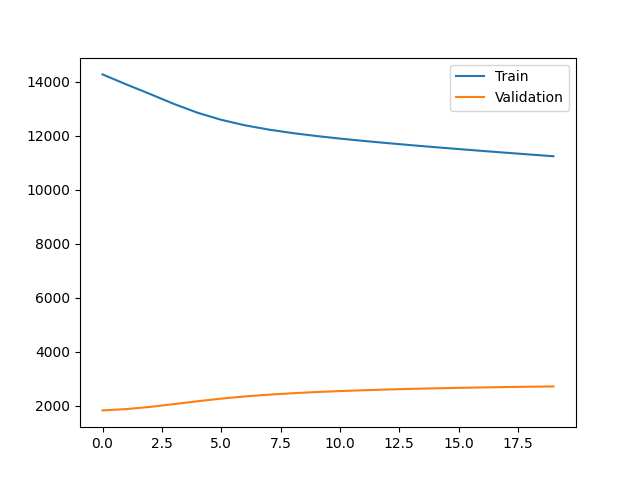
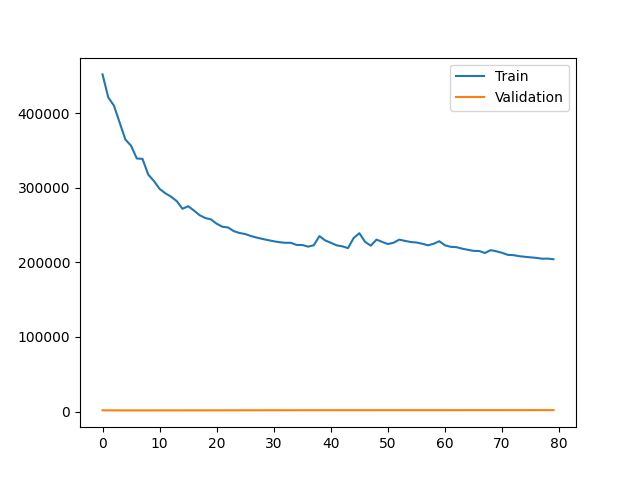
Fixed neural network validation accuracy

diff --git a/starter_code/part_a/neural_network.py b/starter_code/part_a/neural_network.py
@@ -120,6 +120,8 @@ def train(model, lr, lamb, train_data, zero_train_data, valid_data, num_epoch):
         for user_id in range(num_student):
             inputs = Variable(zero_train_data[user_id]).unsqueeze(0).to(device)
             target = inputs.clone().to(device)
+            val_inputs = Variable(val_sparse[user_id]).unsqueeze(0).to(device)
+            val_target = val_inputs.clone().to(device)
 
             optimizer.zero_grad()
             output = model(inputs)
@@ -129,18 +131,18 @@ def train(model, lr, lamb, train_data, zero_train_data, valid_data, num_epoch):
             target[0][nan_mask] = output[0][nan_mask]
 
             nan_mask_val = np.isnan(val_sparse[user_id].unsqueeze(0).numpy())
-            val_target = inputs.clone().to(device)
             val_target[0][nan_mask_val] = output[0][nan_mask_val]
 
             loss = torch.sum((output - target) ** 2.) + (
                     (lamb / 2) * model.get_weight_norm())
+
+            val_loss_internal = torch.sum((output - val_target) ** 2.)
+            val_loss += val_loss_internal.item()
+
             loss.backward()
 
             train_loss += loss.item()
             optimizer.step()
-            val_loss_internal = torch.sum((output - val_target) ** 2.) + (
-                    (lamb / 2) * model.get_weight_norm())
-            val_loss += val_loss_internal.item()
 
         valid_acc = evaluate(model, zero_train_data, valid_data)
         print("Epoch: {} \tTraining Cost: {:.6f}\t "
@@ -154,6 +156,7 @@ def train(model, lr, lamb, train_data, zero_train_data, valid_data, num_epoch):
     #####################################################################
     #                       END OF YOUR CODE                            #
     #####################################################################
+
 
 
 def evaluate(model, train_data, valid_data):
@@ -195,60 +198,25 @@ def main():
     #####################################################################
     # Set model hyperparameters.
     k_lst = [10, 50, 100, 200, 500]
-    # for k in k_lst:
-    # parser = argparse.ArgumentParser()
-    # parser.add_argument("--k", required=False,
-    #                     help="Index for k in [10, 50, 100, 200, 500]")
-    # parser.add_argument("--lr", required=False, help="Learning rate")
-    # parser.add_argument("--num-epoch", required=False, help="Num of epochs")
-    # parser.add_argument("--lamb", required=False, help="Lambda regularization")
-    # args = vars(parser.parse_args())
-    # if args['k']:
-    #     k = k_lst[int(args['k'])]
-    # Set optimization hyperparameters.
-    configs = [
-        {
-            'k': k_lst[0],
-            'lr': 0.01,
-            'num_epochs': 80,
-            'lamb': 0
-        },
-        {
-            'k': k_lst[0],
-            'lr': 0.01,
-            'num_epochs': 80,
-            'lamb': 0
-        },
-        {
-            'k': k_lst[0],
-            'lr': 0.01,
-            'num_epochs': 80,
-            'lamb': 0
-        },
-        {
-            'k': k_lst[0],
-            'lr': 0.01,
-            'num_epochs': 80,
-            'lamb': 0
-        },
-        {
-            'k': k_lst[0],
-            'lr': 0.01,
-            'num_epochs': 80,
-            'lamb': 0
-        }
-    ]
-    for i, config in enumerate(configs[:1]):
-        print(f'Configuration: {config}')
-        k = config['k']
-        lr = config['lr']
-        num_epochs = config['num_epochs']
-        lamb = config['lamb']
 
-        model = AutoEncoder(train_matrix.shape[1], k).to(device=device)
-        train(model, lr, lamb, train_matrix, zero_train_matrix,
-              valid_data, num_epochs)
-        torch.save(model.state_dict(), f"models/nn_{i + 1}")
+    # Set optimization hyperparameters.
+    config = {
+        'k': k_lst[0],
+        'lr': 0.01,
+        'num_epochs': 80,
+        'lamb': 0  # 0.001 for regularized version
+    }
+    print(f'Configuration: {config}')
+    k = config['k']
+    lr = config['lr']
+    num_epochs = config['num_epochs']
+    lamb = config['lamb']
+
+    model = AutoEncoder(train_matrix.shape[1], k).to(device=device)
+    train(model, lr, lamb, train_matrix, zero_train_matrix,
+          valid_data, num_epochs)
+    test_acc = evaluate(model, zero_train_matrix, test_data)
+    print(f'Test Accuracy: {test_acc}')
     #####################################################################
     #                       END OF YOUR CODE                            #
     #####################################################################

diff --git a/starter_code/part_a/ensemble.py b/starter_code/part_a/ensemble.py
@@ -78,9 +78,9 @@ def main():
     predictions = (irt1_predictions + irt2_predictions + irt3_predictions) / 3
     val_acc = sparse_matrix_evaluate(val_data, predictions)
     test_acc = sparse_matrix_evaluate(test_data, predictions)
-    private_test['is_correct'] = sparse_matrix_predictions(private_test,
-                                                           predictions)
-    save_private_test_csv(private_test, 'predictions.csv')
+    # private_test['is_correct'] = sparse_matrix_predictions(private_test,
+    #                                                        predictions)
+    # save_private_test_csv(private_test, 'predictions.csv')
     print("\nFinal Accuracies: ")
     print("------------------------------")
     print(f'Val accuracy: {val_acc}')

diff --git a/starter_code/part_b/hamming_knn.py b/starter_code/part_b/hamming_knn.py
@@ -8,6 +8,7 @@ from scipy.spatial.distance import hamming
 def pairwise_callable(X, Y, **kwds):
     return hamming(X, Y)
 
+
 def knn_impute_by_user(matrix, valid_data, k):
     """ Fill in the missing values using k-Nearest Neighbors based on
     student similarity. Return the accuracy on valid_data.
@@ -142,7 +143,6 @@ def main():
     # # plt.show()
     # plt.clf()
 
-
     # plt.plot(k_list, user_accuracies_dist)
     # plt.xlabel("k")
     # plt.ylabel("Validation Accuracy")
@@ -150,7 +150,6 @@ def main():
     # plt.savefig('plots/knn/user_dist.png')
     # # plt.show()
     # plt.clf()
-
 
     # plt.plot(k_list, item_accuracies)
     # plt.xlabel("k")
